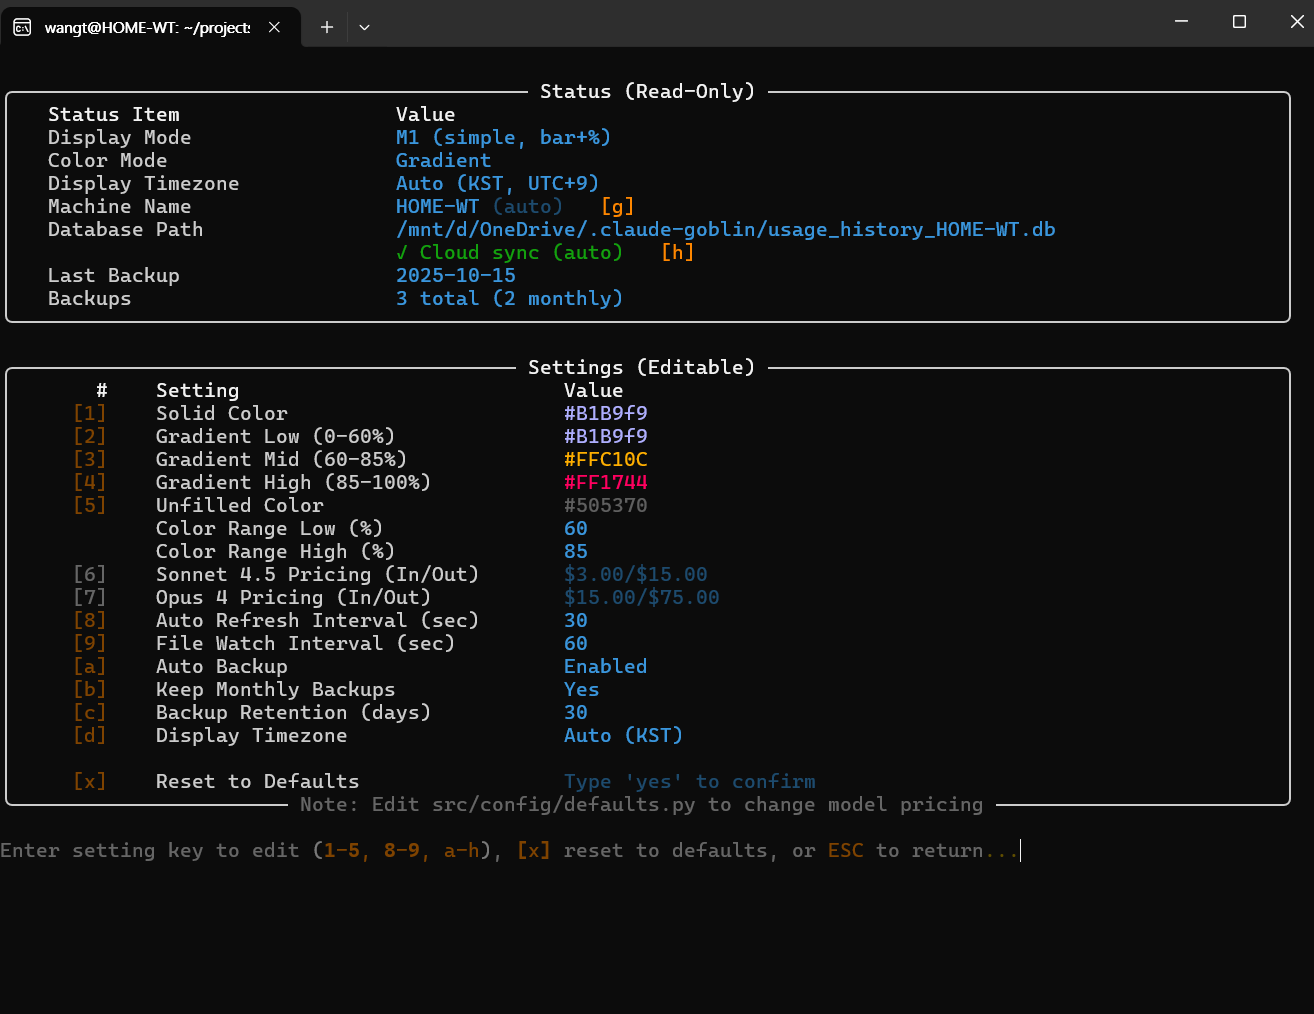
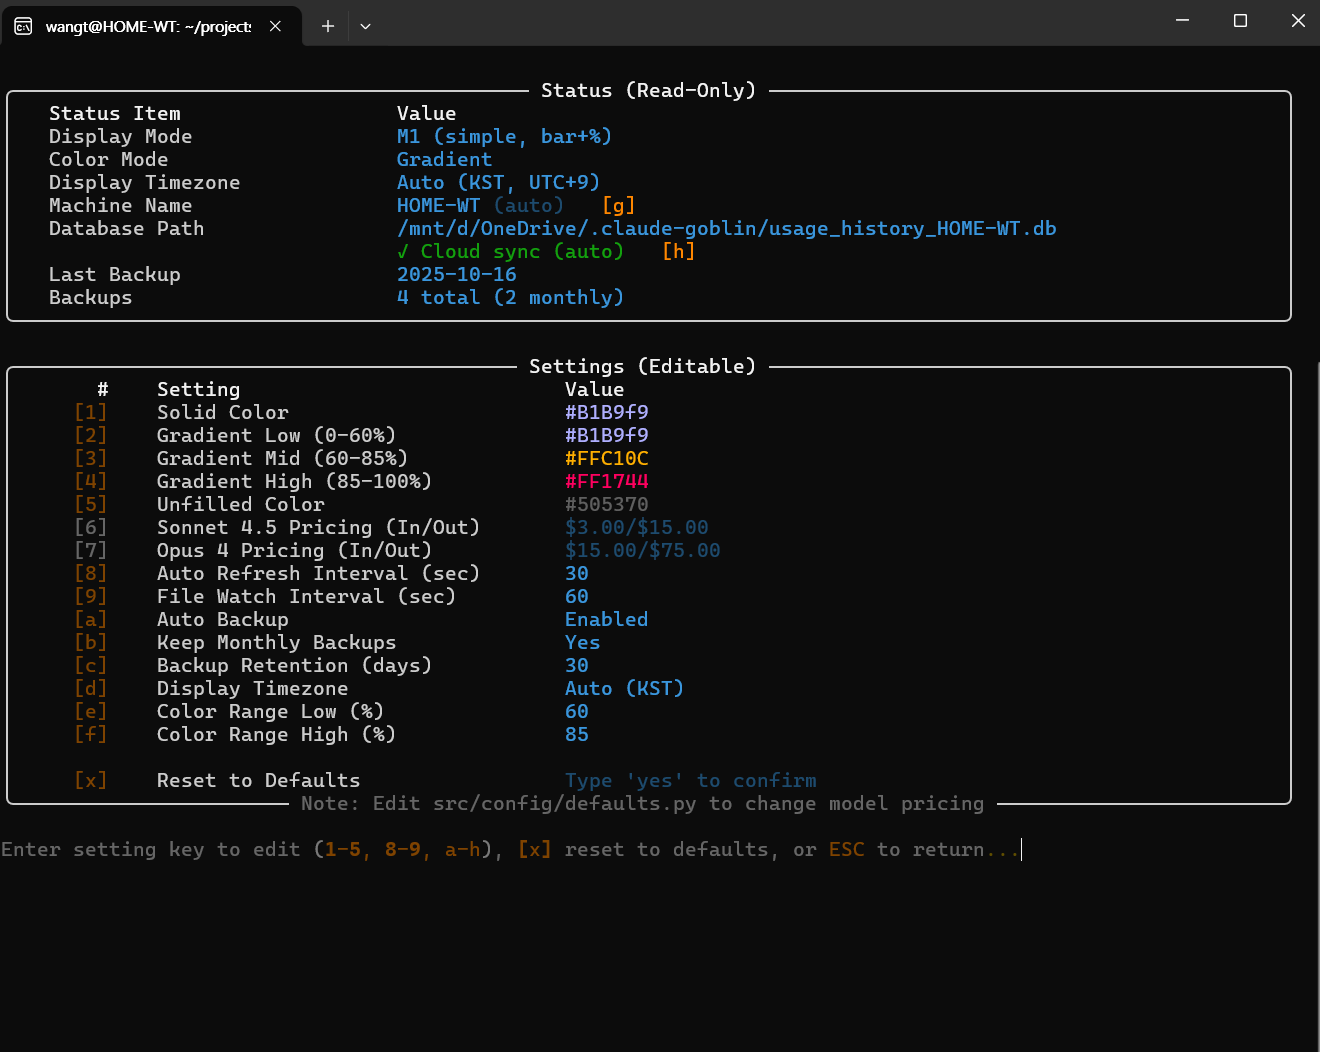
fix: Improve Ctrl+C handling and enhance Settings UI
- Add instant Ctrl+C exit support across all modes (usage, setup wizard)
- Change keyboard listener threads to daemon mode for immediate termination
- Add KeyboardInterrupt propagation in setup wizard at all input points
- Fix Settings menu display order (numeric [1-9] then alphabetic [a-f])
- Fix Rich markup escape for Color Range shortcuts [e] and [f]
- Add program version display in Settings Status section
- Read version from pyproject.toml with fallback to hardcoded version

🤖 Generated with [Claude Code](https://claude.com/claude-code)

diff --git a/src/commands/setup_wizard.py b/src/commands/setup_wizard.py
@@ -21,38 +21,42 @@ def run_setup_wizard(console: Console) -> bool:
     Returns:
         True if setup completed successfully, False if cancelled
     """
-    console.clear()
-    console.print()
-    console.print(Panel.fit(
-        "[bold cyan]Welcome to Claude Goblin![/bold cyan]\n\n"
-        "This wizard will help you configure your usage tracking.",
-        border_style="cyan"
-    ))
-    console.print()
+    try:
+        console.clear()
+        console.print()
+        console.print(Panel.fit(
+            "[bold cyan]Welcome to Claude Goblin![/bold cyan]\n\n"
+            "This wizard will help you configure your usage tracking.",
+            border_style="cyan"
+        ))
+        console.print()
 
-    # Step 1: Database location
-    db_path = _select_database_location(console)
-    if db_path is None:
-        return False  # User cancelled
+        # Step 1: Database location
+        db_path = _select_database_location(console)
+        if db_path is None:
+            return False  # User cancelled
 
-    # Step 2: Machine name (optional)
-    machine_name = _configure_machine_name(console)
-    if machine_name is None:
-        return False  # User cancelled
+        # Step 2: Machine name (optional)
+        machine_name = _configure_machine_name(console)
+        if machine_name is None:
+            return False  # User cancelled
 
-    # Save configuration
-    from src.config.user_config import set_db_path, set_machine_name
+        # Save configuration
+        from src.config.user_config import set_db_path, set_machine_name
 
-    if db_path != "auto":
-        set_db_path(str(db_path))
+        if db_path != "auto":
+            set_db_path(str(db_path))
 
-    if machine_name:
-        set_machine_name(machine_name)
+        if machine_name:
+            set_machine_name(machine_name)
 
-    # Show summary
-    _show_setup_summary(console, db_path, machine_name)
+        # Show summary
+        _show_setup_summary(console, db_path, machine_name)
 
-    return True
+        return True
+    except KeyboardInterrupt:
+        # Ctrl+C pressed - propagate to exit immediately
+        raise
 
 
 def _select_database_location(console: Console) -> Path | str | None:
@@ -157,31 +161,35 @@ def _select_database_location(console: Console) -> Path | str | None:
 
     # Get user choice
     while True:
-        console.print("[dim]Select an option:[/dim] ", end="")
-        key = _read_key()
+        try:
+            console.print("[dim]Select an option:[/dim] ", end="")
+            key = _read_key()
 
-        if key == '\x1b':  # ESC
-            console.print("[yellow]Cancelled[/yellow]")
-            return None
+            if key == '\x1b':  # ESC
+                console.print("[yellow]Cancelled[/yellow]")
+                return None
 
-        if key in option_paths:
-            console.print(key)
-            selected_path = option_paths[key]
+            if key in option_paths:
+                console.print(key)
+                selected_path = option_paths[key]
 
-            # If OneDrive was selected, ask for confirmation
-            if key == "1" and onedrive_available:
-                confirmed_path = _confirm_onedrive_path(console, selected_path)
-                if confirmed_path is None:
-                    return None  # User cancelled
-                return confirmed_path
+                # If OneDrive was selected, ask for confirmation
+                if key == "1" and onedrive_available:
+                    confirmed_path = _confirm_onedrive_path(console, selected_path)
+                    if confirmed_path is None:
+                        return None  # User cancelled
+                    return confirmed_path
 
-            return selected_path
+                return selected_path
 
-        if key == custom_key:
-            console.print(key)
-            return _get_custom_path(console)
+            if key == custom_key:
+                console.print(key)
+                return _get_custom_path(console)
 
-        console.print(f"\n[red]Invalid option. Please select 1-{len(options)} or ESC to cancel.[/red]\n")
+            console.print(f"\n[red]Invalid option. Please select 1-{len(options)} or ESC to cancel.[/red]\n")
+        except KeyboardInterrupt:
+            # Ctrl+C pressed - propagate to exit immediately
+            raise
 
 
 def _confirm_onedrive_path(console: Console, detected_path: Path) -> Path | None:
@@ -208,24 +216,28 @@ def _confirm_onedrive_path(console: Console, detected_path: Path) -> Path | None
     console.print()
 
     while True:
-        console.print("[dim]Your choice:[/dim] ", end="")
-        key = _read_key()
+        try:
+            console.print("[dim]Your choice:[/dim] ", end="")
+            key = _read_key()
 
-        if key == '\x1b':  # ESC
-            console.print("[yellow]Cancelled[/yellow]")
-            return None
+            if key == '\x1b':  # ESC
+                console.print("[yellow]Cancelled[/yellow]")
+                return None
 
-        if key.lower() == 'y':
-            console.print(key)
-            console.print(f"[green]✓ Using detected path[/green]")
-            return detected_path
+            if key.lower() == 'y':
+                console.print(key)
+                console.print(f"[green]✓ Using detected path[/green]")
+                return detected_path
 
-        if key.lower() == 'n':
-            console.print(key)
-            # Ask for custom OneDrive path
-            return _get_custom_onedrive_path(console)
+            if key.lower() == 'n':
+                console.print(key)
+                # Ask for custom OneDrive path
+                return _get_custom_onedrive_path(console)
 
-        console.print(f"\n[red]Invalid choice. Press 'y', 'n', or ESC.[/red]\n")
+            console.print(f"\n[red]Invalid choice. Press 'y', 'n', or ESC.[/red]\n")
+        except KeyboardInterrupt:
+            # Ctrl+C pressed - propagate to exit immediately
+            raise
 
 
 def _get_custom_onedrive_path(console: Console) -> Path | None:
@@ -398,7 +410,11 @@ def _show_setup_summary(console: Console, db_path: Path | str, machine_name: str
     console.print("[dim]  • Run 'ccu config show' to view current settings[/dim]")
     console.print()
     console.print("[green]Press any key to continue...[/green]")
-    _read_key()
+    try:
+        _read_key()
+    except KeyboardInterrupt:
+        # Ctrl+C pressed - propagate to exit immediately
+        raise
 
 
 def _read_key() -> str:

diff --git a/src/cli.py b/src/cli.py
@@ -133,32 +133,41 @@ def main() -> None:
     Exit:
         Press Ctrl+C, [q], or [Esc] to exit
     """
-    # Check if first-time setup is needed
     try:
-        from src.commands.setup_wizard import should_run_setup_wizard, run_setup_wizard, mark_setup_completed
+        # Check if first-time setup is needed
+        try:
+            from src.commands.setup_wizard import should_run_setup_wizard, run_setup_wizard, mark_setup_completed
 
-        if should_run_setup_wizard():
-            setup_console = Console()
-            if run_setup_wizard(setup_console):
-                mark_setup_completed()
-            else:
-                # User cancelled setup, use defaults
-                setup_console.print("\n[yellow]Setup cancelled. Using default settings.[/yellow]")
-                setup_console.print("[dim]You can run 'ccu config show' to view settings anytime.[/dim]\n")
-                mark_setup_completed()
-    except Exception as e:
-        # If setup wizard fails, continue with defaults
-        console = Console()
-        console.print(f"[yellow]Setup wizard error (using defaults): {e}[/yellow]")
+            if should_run_setup_wizard():
+                setup_console = Console()
+                if run_setup_wizard(setup_console):
+                    mark_setup_completed()
+                else:
+                    # User cancelled setup, use defaults
+                    setup_console.print("\n[yellow]Setup cancelled. Using default settings.[/yellow]")
+                    setup_console.print("[dim]You can run 'ccu config show' to view settings anytime.[/dim]\n")
+                    mark_setup_completed()
+        except KeyboardInterrupt:
+            # Ctrl+C during setup - exit immediately
+            import sys
+            sys.exit(0)
+        except Exception as e:
+            # If setup wizard fails, continue with defaults
+            console = Console()
+            console.print(f"[yellow]Setup wizard error (using defaults): {e}[/yellow]")
 
-    # Auto-backup on program start (silent, won't block execution)
-    try:
-        from src.utils.backup import auto_backup
-        auto_backup()
-    except Exception:
-        pass  # Silently ignore backup errors
+        # Auto-backup on program start (silent, won't block execution)
+        try:
+            from src.utils.backup import auto_backup
+            auto_backup()
+        except Exception:
+            pass  # Silently ignore backup errors
 
-    app()
+        app()
+    except KeyboardInterrupt:
+        # Ctrl+C at any point - exit immediately without message
+        import sys
+        sys.exit(0)
 
 
 if __name__ == "__main__":

diff --git a/src/commands/settings.py b/src/commands/settings.py
@@ -146,6 +146,19 @@ def _display_settings_menu(console: Console, prefs: dict, machine_name: str, db_
     status_table.add_column("Status Item", style="white", justify="left", width=25)
     status_table.add_column("Value", style="cyan", justify="left")
 
+    # Program version
+    try:
+        import tomllib
+        from pathlib import Path
+        pyproject_path = Path(__file__).parent.parent.parent / "pyproject.toml"
+        with open(pyproject_path, "rb") as f:
+            pyproject_data = tomllib.load(f)
+            version = pyproject_data.get("project", {}).get("version", "Unknown")
+    except Exception:
+        version = "0.2.0"  # Fallback version
+
+    status_table.add_row("Program Version", version)
+
     display_mode_names = ["M1 (simple, bar+%)", "M2 (simple, bar %)", "M3 (panel, bar+%)", "M4 (panel, bar %)"]
     display_mode = int(prefs.get('usage_display_mode', '0'))
     status_table.add_row("Display Mode", display_mode_names[display_mode] if 0 <= display_mode < 4 else "M1")
@@ -239,8 +252,6 @@ def _display_settings_menu(console: Console, prefs: dict, machine_name: str, db_
     settings_table.add_row("[#ff8800][3][/#ff8800]", f"Gradient Mid ({color_range_low}-{color_range_high}%)", f"[{color_gradient_mid}]{color_gradient_mid}[/{color_gradient_mid}]")
     settings_table.add_row("[#ff8800][4][/#ff8800]", f"Gradient High ({color_range_high}-100%)", f"[{color_gradient_high}]{color_gradient_high}[/{color_gradient_high}]")
     settings_table.add_row("[#ff8800][5][/#ff8800]", "Unfilled Color", f"[{color_unfilled}]{color_unfilled}[/{color_unfilled}]")
-    settings_table.add_row("[#ff8800][e][/#ff8800]", "Color Range Low (%)", color_range_low)
-    settings_table.add_row("[#ff8800][f][/#ff8800]", "Color Range High (%)", color_range_high)
 
     # Model pricing settings (read-only - edit src/config/defaults.py to change)
     from src.storage.snapshot_db import get_model_pricing_for_settings
@@ -285,6 +296,10 @@ def _display_settings_menu(console: Console, prefs: dict, machine_name: str, db_
     else:
         tz_value = f"{tz_setting} ({tz_info['abbr']})"
     settings_table.add_row("[#ff8800]\\[d][/#ff8800]", "Display Timezone", tz_value)
+
+    # Color range settings (alphabetically after a-d)
+    settings_table.add_row("[#ff8800]\\[e][/#ff8800]", "Color Range Low (%)", color_range_low)
+    settings_table.add_row("[#ff8800]\\[f][/#ff8800]", "Color Range High (%)", color_range_high)
 
     # Empty row for spacing
     settings_table.add_row("", "", "")

diff --git a/src/commands/usage.py b/src/commands/usage.py
@@ -591,8 +591,8 @@ def _run_refresh_dashboard(jsonl_files: list[Path], console: Console, original_t
     }
     stop_event = threading.Event()
 
-    # Start keyboard listener thread
-    keyboard_thread = threading.Thread(target=_keyboard_listener, args=(view_mode_ref, stop_event), daemon=False)
+    # Start keyboard listener thread (daemon=True for instant Ctrl+C exit)
+    keyboard_thread = threading.Thread(target=_keyboard_listener, args=(view_mode_ref, stop_event), daemon=True)
     keyboard_thread.start()
 
     # Start background limits updater thread
@@ -638,9 +638,8 @@ def _run_refresh_dashboard(jsonl_files: list[Path], console: Console, original_t
         stop_event.set()
         raise
     finally:
-        # Ensure threads finish
+        # Signal threads to stop (daemon threads will exit automatically)
         stop_event.set()
-        keyboard_thread.join(timeout=1.0)
 
 
 def _run_watch_dashboard(jsonl_files: list[Path], console: Console, original_terminal_settings, skip_limits: bool = False, anonymize: bool = False, watch_interval: int = 60, limits_interval: int = 60) -> None:
@@ -711,8 +710,8 @@ def _run_watch_dashboard(jsonl_files: list[Path], console: Console, original_ter
     watcher = watch_claude_files()
     watcher.start()
 
-    # Start keyboard listener thread (NOT daemon so we can clean up properly)
-    keyboard_thread = threading.Thread(target=_keyboard_listener, args=(view_mode_ref, stop_event), daemon=False)
+    # Start keyboard listener thread (daemon=True for instant Ctrl+C exit)
+    keyboard_thread = threading.Thread(target=_keyboard_listener, args=(view_mode_ref, stop_event), daemon=True)
     keyboard_thread.start()
 
     try:
@@ -762,9 +761,8 @@ def _run_watch_dashboard(jsonl_files: list[Path], console: Console, original_ter
         watcher.stop()
         raise
     finally:
-        # Ensure threads finish
+        # Signal threads to stop (daemon threads will exit automatically)
         stop_event.set()
-        keyboard_thread.join(timeout=1.0)
 
 
 def _display_dashboard(jsonl_files: list[Path], console: Console, skip_limits: bool = False, skip_limits_update: bool = False, anonymize: bool = False, view_mode: str = "usage", view_mode_ref: dict | None = None, show_status: bool = True) -> None:

diff --git a/README.md b/README.md
@@ -181,7 +181,7 @@ All screenshots show the interactive TUI dashboard with real-time data and keybo
 
 ### 9. Settings Menu - Configuration
 
-![Settings Menu](docs/images/09_settings.png?1)
+![Settings Menu](docs/images/09_settings.png?2)
 
 **Key Features:**
 - Color customization (solid colors and gradient ranges)
